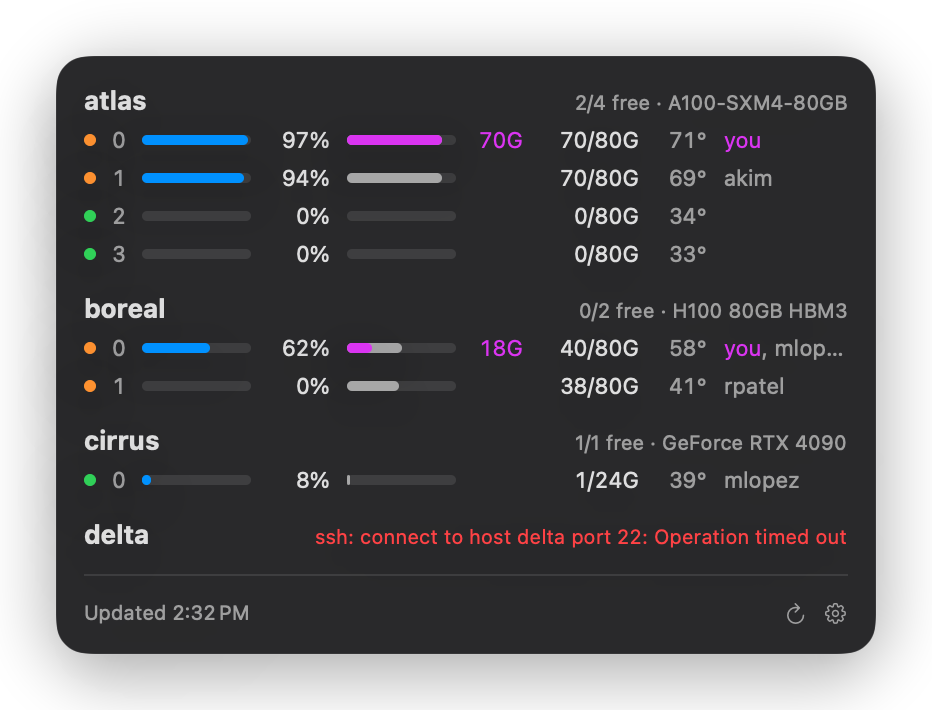
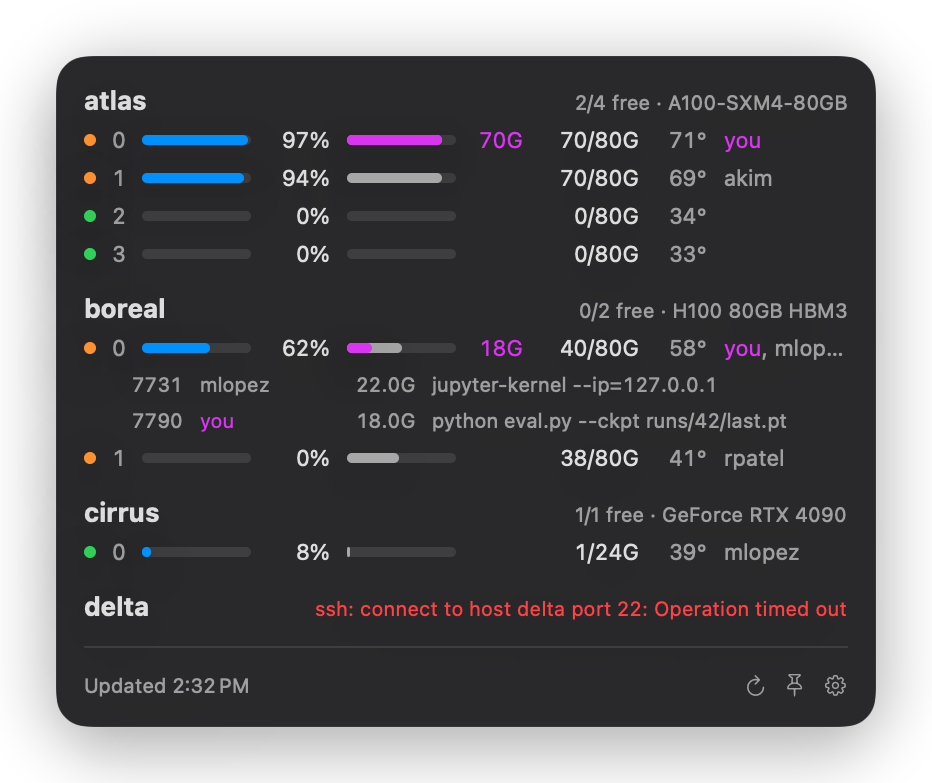
Pinnable popover and expandable process list per GPU

diff --git a/GPUBar.swift b/GPUBar.swift
@@ -4,12 +4,13 @@ import ServiceManagement
 import SwiftUI
 
 let hostsFile = URL.homeDirectory.appending(path: ".config/gpubar/hosts")
-// The ssh user's name, GPU rows, then "uuid, MiB, owner" per compute process. sh -c: any login shell.
+// The ssh user's name, GPU rows, then "uuid, pid, MiB, owner, command" per compute process. sh -c: any login shell.
 let query = """
 sh -c 'id -un && \
 nvidia-smi --query-gpu=index,name,utilization.gpu,memory.used,memory.total,temperature.gpu,uuid --format=csv,noheader,nounits && \
 nvidia-smi --query-compute-apps=gpu_uuid,pid,used_memory --format=csv,noheader,nounits | \
-while IFS=", " read -r g p m; do echo "$g, $m, $(stat -c %U /proc/$p 2>/dev/null)"; done'
+while IFS=", " read -r g p m; do \
+echo "$g, $p, $m, $(stat -c %U /proc/$p 2>/dev/null), $(tr "\\0" " " 2>/dev/null </proc/$p/cmdline)"; done'
 """
 
 // Re-read on every refresh, so edits apply without a restart. Lines starting with # are skipped.
@@ -21,11 +22,16 @@ func hosts() -> [String] {
 
 struct GPU: Identifiable {
     let id: Int, name: String, util: Int, memUsed: Int, memTotal: Int, temp: Int
-    var mine = 0  // MiB held by your processes
-    var you = false  // one of your processes runs on it
-    var users: [String] = []  // everyone else, by name
+    var procs: [Proc] = []
+    var mine: Int { procs.filter(\.mine).map(\.mib).reduce(0, +) }  // MiB held by your processes
+    var you: Bool { procs.contains(where: \.mine) }
+    var users: [String] { Set(procs.filter { !$0.mine }.map(\.user)).sorted() }  // everyone else
     // free = idle and holding under 5% of its memory
     var free: Bool { util < 10 && memUsed * 20 < memTotal }
+}
+
+struct Proc {
+    let pid: String, mib: Int, user: String, mine: Bool, command: String
 }
 
 struct Node: Identifiable {
@@ -47,19 +53,20 @@ func fetch(_ host: String) async -> Node {
                 let msg = p.terminationReason == .uncaughtSignal ? "timed out" : text(err).split(separator: "\n").last.map(String.init)
                 return done.resume(returning: Node(id: host, error: msg ?? "exit \(p.terminationStatus)"))
             }
-            let rows = text(out).split(separator: "\n").map { $0.split(separator: ",").map { $0.trimmingCharacters(in: .whitespaces) } }
-            let me = rows.first?.first ?? ""
-            var mine = [String: Int](), users = [String: Set<String>]()
-            for f in rows where f.count == 3 && !f[2].isEmpty {  // empty owner: process exited meanwhile
-                users[f[0], default: []].insert(f[2])
-                if f[2] == me { mine[f[0], default: 0] += Int(f[1]) ?? 0 }
+            let lines = text(out).split(separator: "\n")
+            let me = lines.first.map(String.init) ?? ""
+            var procs = [String: [Proc]]()
+            for l in lines where l.hasPrefix("GPU-") {  // the command is last and may itself contain commas
+                let f = l.split(separator: ",", maxSplits: 4, omittingEmptySubsequences: false).map { $0.trimmingCharacters(in: .whitespaces) }
+                guard f.count == 5, !f[3].isEmpty else { continue }  // empty owner: process exited meanwhile
+                procs[f[0], default: []].append(Proc(pid: f[1], mib: Int(f[2]) ?? 0, user: f[3], mine: f[3] == me, command: f[4]))
             }
-            let gpus = rows.filter { $0.count == 7 }.map { f in
-                let n = f.map { Int($0) ?? 0 }  // "[N/A]" fields read as 0
-                let u = users[f[6], default: []]
-                return GPU(id: n[0], name: f[1].replacingOccurrences(of: "NVIDIA ", with: ""), util: n[2], memUsed: n[3], memTotal: n[4], temp: n[5], mine: mine[f[6]] ?? 0,
-                           you: u.contains(me), users: u.subtracting([me]).sorted())
-            }
+            let gpus = lines.filter { !$0.hasPrefix("GPU-") }.map { $0.split(separator: ",").map { $0.trimmingCharacters(in: .whitespaces) } }
+                .filter { $0.count == 7 }.map { f in
+                    let n = f.map { Int($0) ?? 0 }  // "[N/A]" fields read as 0
+                    return GPU(id: n[0], name: f[1].replacingOccurrences(of: "NVIDIA ", with: ""), util: n[2], memUsed: n[3], memTotal: n[4], temp: n[5],
+                               procs: procs[f[6], default: []].sorted { $0.mib > $1.mib })
+                }
             done.resume(returning: Node(id: host, gpus: gpus))
         }
         do { try p.run() } catch { return done.resume(returning: Node(id: host, error: error.localizedDescription)) }
@@ -73,6 +80,8 @@ func fetch(_ host: String) async -> Node {
     var interval = UserDefaults.standard.object(forKey: "interval") as? Double ?? 10
     var openAtLogin = SMAppService.mainApp.status == .enabled
     var gpus: [GPU] { nodes.flatMap(\.gpus) }
+    var expanded: Set<String> = []  // "host/index" of GPUs showing their processes
+    var pinned = false  // popover stays open when it loses focus
     @ObservationIgnored private var loop: Task<Void, Never>?
 
     init() { restart() }
@@ -110,18 +119,44 @@ func fetch(_ host: String) async -> Node {
     }
 }
 
-@main struct GPUBar: App {
-    private let monitor = Monitor()  // App is created once; @State needs Xcode's macro plugin
+// AppKit status item + NSPopover: unlike MenuBarExtra, a popover can stay open when it loses focus (pin).
+@main @MainActor final class GPUBar: NSObject {
+    static func main() {
+        let app = NSApplication.shared
+        withExtendedLifetime(GPUBar()) { app.run() }
+    }
 
-    var body: some Scene {
-        MenuBarExtra {
-            Panel(monitor: monitor)
-        } label: {
+    let monitor = Monitor()
+    let item = NSStatusBar.system.statusItem(withLength: NSStatusItem.variableLength)
+    let popover = NSPopover()
+
+    override init() {
+        super.init()
+        let host = NSHostingController(rootView: Panel(monitor: monitor))
+        host.sizingOptions = .preferredContentSize  // popover follows the panel's height as rows expand
+        popover.contentViewController = host
+        item.button?.image = NSImage(systemSymbolName: "memorychip", accessibilityDescription: "GPUs")
+        item.button?.imagePosition = .imageLeading
+        item.button?.font = .monospacedDigitSystemFont(ofSize: NSFont.systemFontSize, weight: .regular)
+        item.button?.target = self
+        item.button?.action = #selector(toggle)
+        sync()
+    }
+
+    @objc func toggle() {
+        guard let b = item.button else { return }
+        if popover.isShown { popover.performClose(nil) } else { NSApp.activate(); popover.show(relativeTo: b.bounds, of: b, preferredEdge: .minY) }
+    }
+
+    // Re-run whenever the menu bar numbers or the pin change.
+    func sync() {
+        withObservationTracking {
             let g = monitor.gpus
-            Image(systemName: "memorychip")
-            Text(g.isEmpty ? "–" : "\(g.filter(\.free).count)/\(g.count) · \(g.map(\.util).reduce(0, +) / g.count)%")
+            item.button?.title = g.isEmpty ? " –" : " \(g.filter(\.free).count)/\(g.count) · \(g.map(\.util).reduce(0, +) / g.count)%"
+            popover.behavior = monitor.pinned ? .applicationDefined : .transient
+        } onChange: {
+            Task { @MainActor in self.sync() }
         }
-        .menuBarExtraStyle(.window)
     }
 }
 
@@ -147,7 +182,22 @@ struct Panel: View {
                         }
                     }
                     .font(.caption)
-                    ForEach(node.gpus) { Row(gpu: $0) }
+                    ForEach(node.gpus) { g in
+                        let key = "\(node.id)/\(g.id)"
+                        Row(gpu: g).onTapGesture { monitor.expanded.formSymmetricDifference([key]) }
+                        if monitor.expanded.contains(key) {
+                            ForEach(g.procs, id: \.pid) { p in
+                                HStack(spacing: 8) {
+                                    Text(p.pid).frame(width: 50, alignment: .trailing)
+                                    (p.mine ? Text("you").foregroundStyle(.purple) : Text(p.user)).frame(width: 62, alignment: .leading)
+                                    Text(String(format: "%.1fG", Double(p.mib) / 1024)).frame(width: 38, alignment: .trailing)
+                                    Text(p.command).lineLimit(1).truncationMode(.middle).help(p.command)
+                                }
+                                .font(.system(size: 10).monospacedDigit())
+                                .foregroundStyle(.secondary)
+                            }
+                        }
+                    }
                 }
             }
             Divider()
@@ -156,6 +206,8 @@ struct Panel: View {
                 Spacer()
                 Button { monitor.restart() } label: { Image(systemName: "arrow.clockwise") }
                     .help("Refresh now")
+                Button { monitor.pinned.toggle() } label: { Image(systemName: monitor.pinned ? "pin.fill" : "pin") }
+                    .help(monitor.pinned ? "Unpin" : "Keep open when clicking elsewhere")
                 let interval = monitor.interval, on = monitor.openAtLogin  // read here so the panel re-renders when they change
                 Menu {
                     Picker("Refresh every", selection: Binding(get: { interval }, set: { monitor.setInterval($0) })) {
@@ -199,7 +251,8 @@ struct Row: View {
                 .foregroundStyle(.secondary).lineLimit(1).frame(width: 62, alignment: .leading)
         }
         .font(.system(size: 11).monospacedDigit())
-        .help("\(gpu.name) · util \(gpu.util)% · \(gpu.memUsed) MiB used, yours \(gpu.mine) MiB · \(gpu.users.joined(separator: ", "))")
+        .contentShape(.rect)
+        .help("\(gpu.name) · \(gpu.procs.count) processes, click to show")
     }
 
     func gb(_ mib: Int) -> Int { Int((Double(mib) / 1024).rounded()) }

diff --git a/README.md b/README.md
@@ -7,6 +7,7 @@
 The menu bar shows free GPUs and mean utilization across all hosts, e.g. `6/12 · 23%`.
 Click it for utilization, memory and temperature per GPU.
 Busy GPUs list who is using them; memory held by your own processes shows in purple.
+Click a GPU to list its processes, and pin the popover to keep it open while you work elsewhere.
 
 <p align="center"><img src="screenshot.png" width="466" alt="GPUBar popover with sample data"></p>
 
